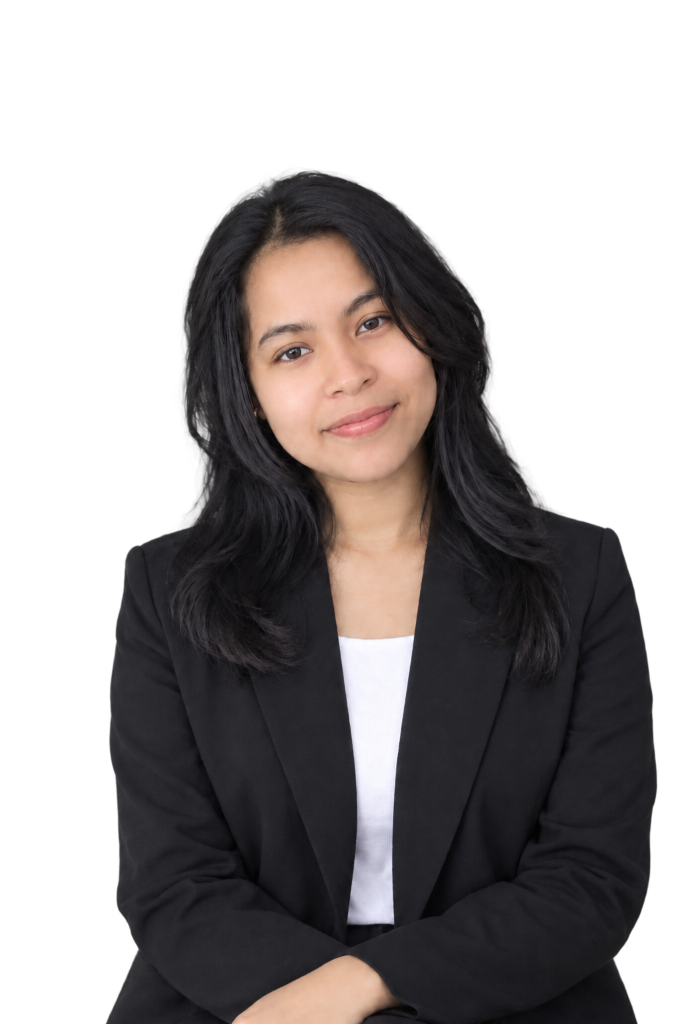
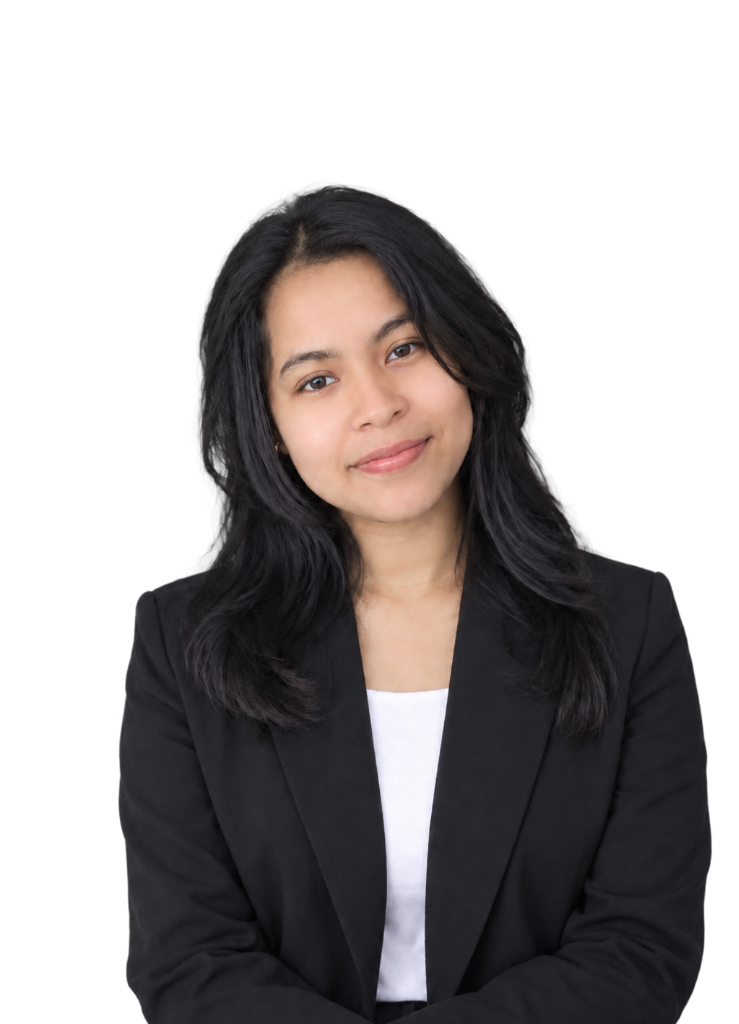
feat: use new full portrait image

diff --git a/src/components/Hero.jsx b/src/components/Hero.jsx
@@ -125,43 +125,26 @@ export function Hero() {
             </span>
           </div>
 
-          {/* Portrait image — cropped to waist-up, hands hidden */}
+          {/* Portrait image — full photo, no crop */}
           <div
             className="portrait-wrapper relative w-full flex justify-center items-end"
             style={{ height: '100%' }}
           >
-            {/* Crop container: overflow hidden cuts the bottom (hands/lap) */}
-            <div
-              className="portrait-crop-container grayscale-portrait"
+            <img
+              src="/assets/bidita-portrait.png"
+              alt="Bidita Gogoi — Computer Science Engineering Student"
+              className="hero-portrait grayscale-portrait"
               style={{
-                position: 'relative',
-                width: '100%',
-                maxWidth: '520px',
-                /* 
-                  aspect-ratio ~3:4 shows head-to-waist.
-                  Increase the second number to reveal more, decrease to crop tighter.
-                */
-                aspectRatio: '3 / 4',
-                overflow: 'hidden',
-                alignSelf: 'flex-end',
+                display: 'block',
+                maxHeight: '90vh',
+                width: 'auto',
+                maxWidth: '100%',
+                objectFit: 'contain',
+                objectPosition: 'bottom center',
+                marginTop: 'auto',
                 mixBlendMode: 'multiply',
               }}
-            >
-              <img
-                src="/assets/bidita-portrait.png"
-                alt="Bidita Gogoi — Computer Science Engineering Student"
-                className="hero-portrait"
-                style={{
-                  position: 'absolute',
-                  top: 0,
-                  left: 0,
-                  width: '100%',
-                  height: '145%',   /* taller than container → bottom gets clipped */
-                  objectFit: 'cover',
-                  objectPosition: 'top center',
-                }}
-              />
-            </div>
+            />
           </div>
         </div>
       </div>
